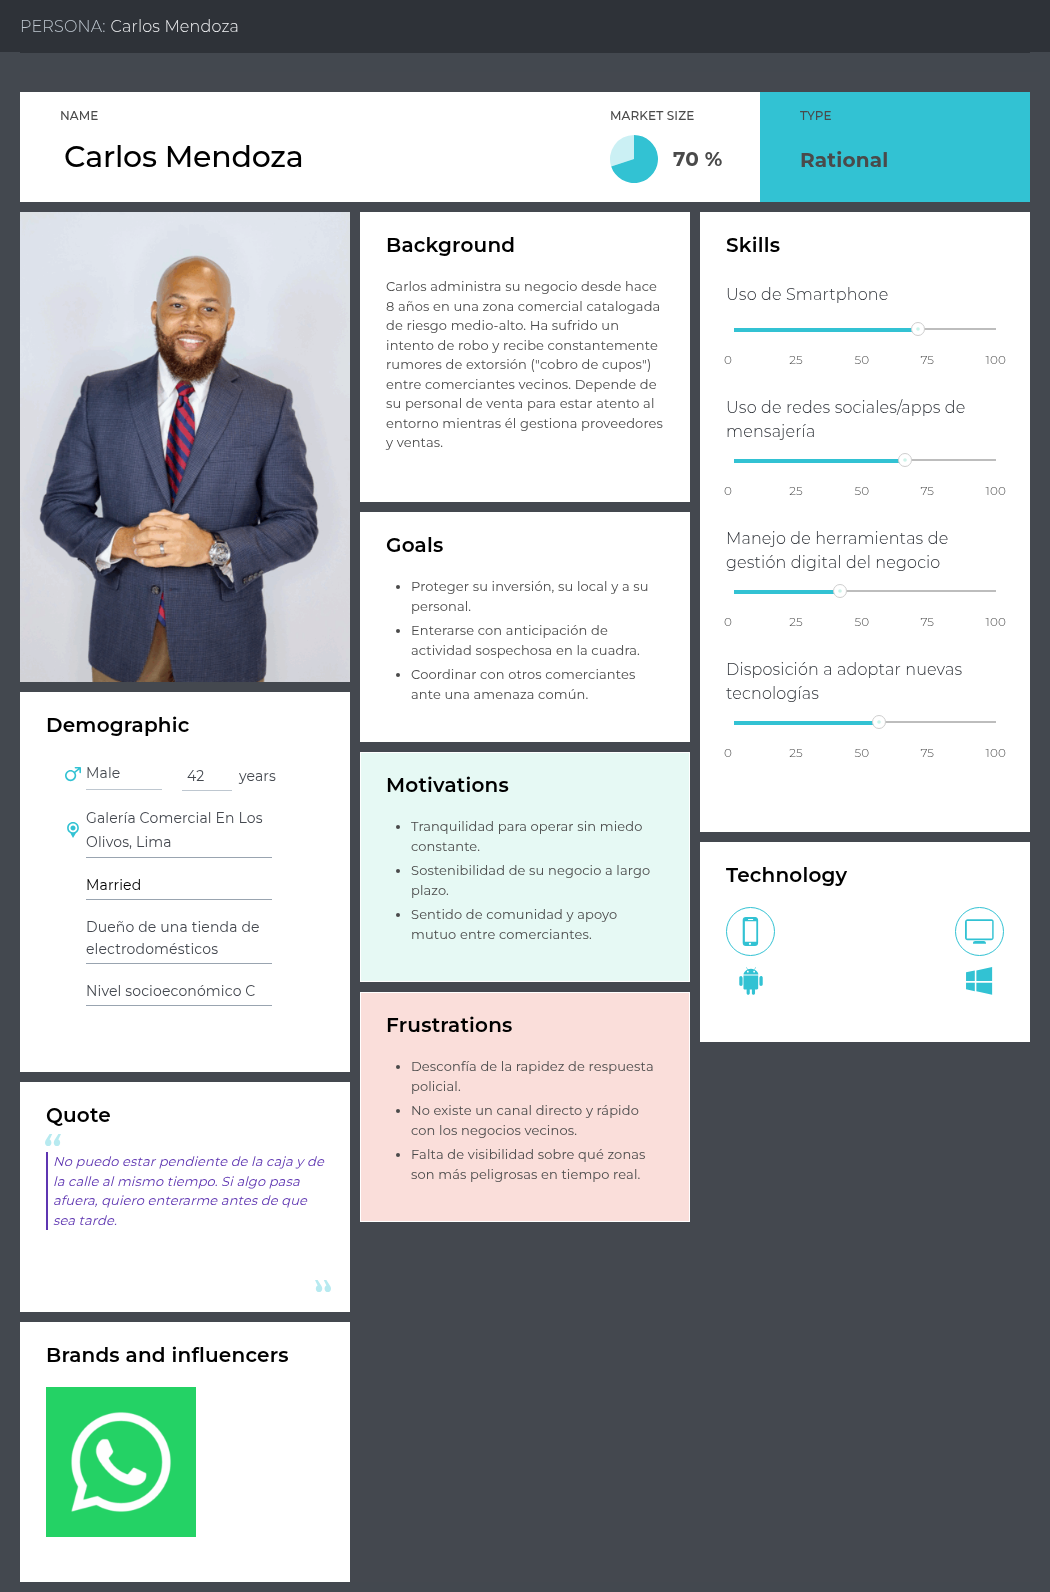
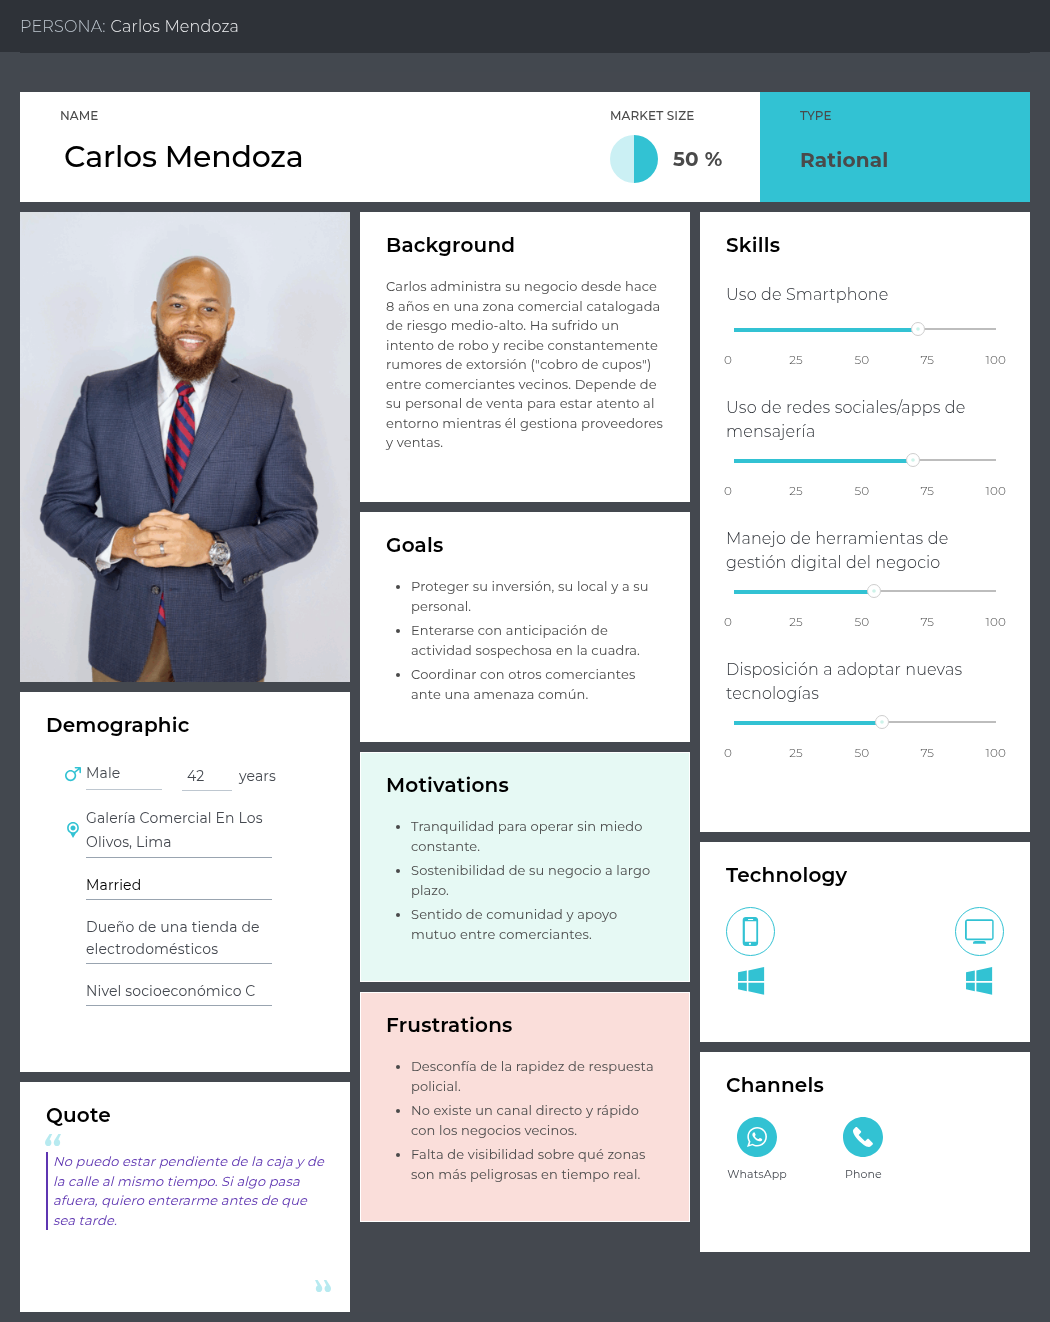
docs(chapter2): add new user persona images and description

diff --git a/docs/chapter2.md b/docs/chapter2.md
@@ -245,24 +245,26 @@ En esta sección se presentan las fichas de User Persona, construidas a partir d
 
 **User Persona 1: Carlos Mendoza - Administrador y dueño de local comercial**
 
+Para representar a los administradores y dueños de comercios, se elaboró la persona de usuario Carlos Mendoza, propietario de una tienda de electrodomésticos de 42 años, con ocho años de experiencia en una galería comercial de Los Olivos. Su perfil refleja las responsabilidades de quien busca proteger su negocio y a su personal mientras atiende las ventas y la gestión del local. También considera sus preocupaciones ante los intentos de robo, los rumores de extorsión y la falta de información oportuna sobre los riesgos cercanos. Sus principales necesidades son anticiparse a incidentes en la zona y coordinarse con otros comerciantes. Su uso habitual del teléfono inteligente y de aplicaciones de mensajería también se tomó en cuenta para definir cómo accedería a InstAlert.
+
 <p align="center">
   <img src="../assets/Chapter2/Graphics/01-user-persona.png" alt="User persona Carlos Mendoza" width="600">
 </p>
 
-***Nota.*** Ficha que representa el arquetipo del Segmento 1. Detalla sus objetivos orientados a proteger su inversión y a su personal, su frustración ante la ineficacia policial frente a extorsiones, y su necesidad de una plataforma centralizada para recibir alertas tempranas.
 
-Para una mejor visualización de los detalles y lectura: [Ver Ficha de User Persona 1](https://upcedupe-my.sharepoint.com/:i:/g/personal/u20241g022_upc_edu_pe/IQB6H7iWp1u_SaA7wZPV7YSOAUHKis7__wwOyzxH4cpoCbc?e=D00egw) 
+
+
 
 
 **User Persona 2: Lucía Ramírez - Personal operativo y vendedora**
+
+Para representar al personal operativo y vendedor, se elaboró la persona de usuario Lucía Ramírez, una vendedora de 24 años que trabaja en un local comercial del centro de Lima. Su perfil refleja la exposición de quienes atienden directamente al público y pueden encontrarse con una situación de riesgo durante la jornada. Sus principales necesidades son sentirse segura, pedir ayuda con rapidez y discreción, e identificar datos clave de una alerta cercana, como el tipo de incidente y su distancia. También se consideraron su uso frecuente del teléfono inteligente y de aplicaciones de mensajería, así como la importancia de que las acciones de la plataforma sean sencillas durante momentos de tensión.
 
 <p align="center">
   <img src="../assets/Chapter2/Graphics/02-user-persona.png" alt="User persona Lucia Ramirez" width="600">
 </p>
 
-***Nota.*** Ficha que representa el arquetipo del Segmento 2. Expone su necesidad de contar con herramientas de auxilio rápido (botón de pánico) y su frustración por la vulnerabilidad y exposición al peligro durante los horarios de apertura, cierre o manejo de efectivo.
 
-Para una mejor visualización de los detalles y lectura: [Ver Ficha de User Persona 2](https://upcedupe-my.sharepoint.com/:i:/g/personal/u20241g022_upc_edu_pe/IQAQgAyDVbwmQY6md0n5nu1nAbgV4gOMufdDbHsxmPhoQho?e=ESLT3z) 
 
 
 
